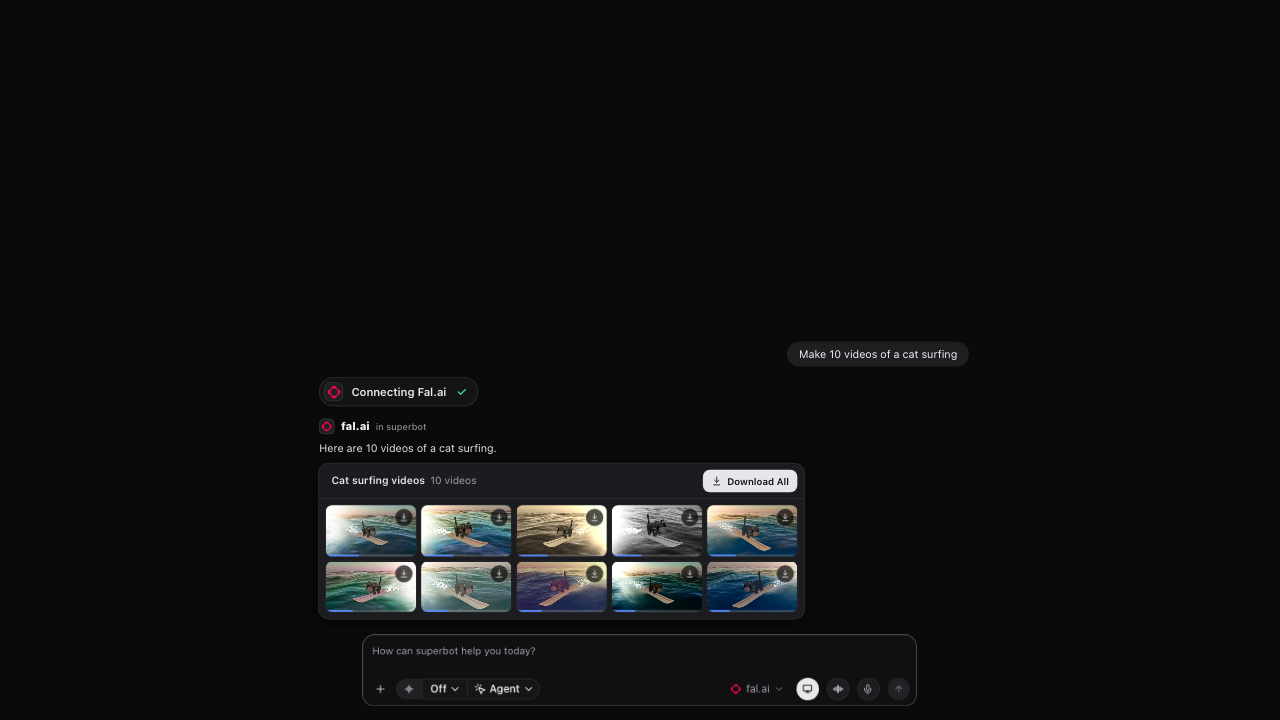
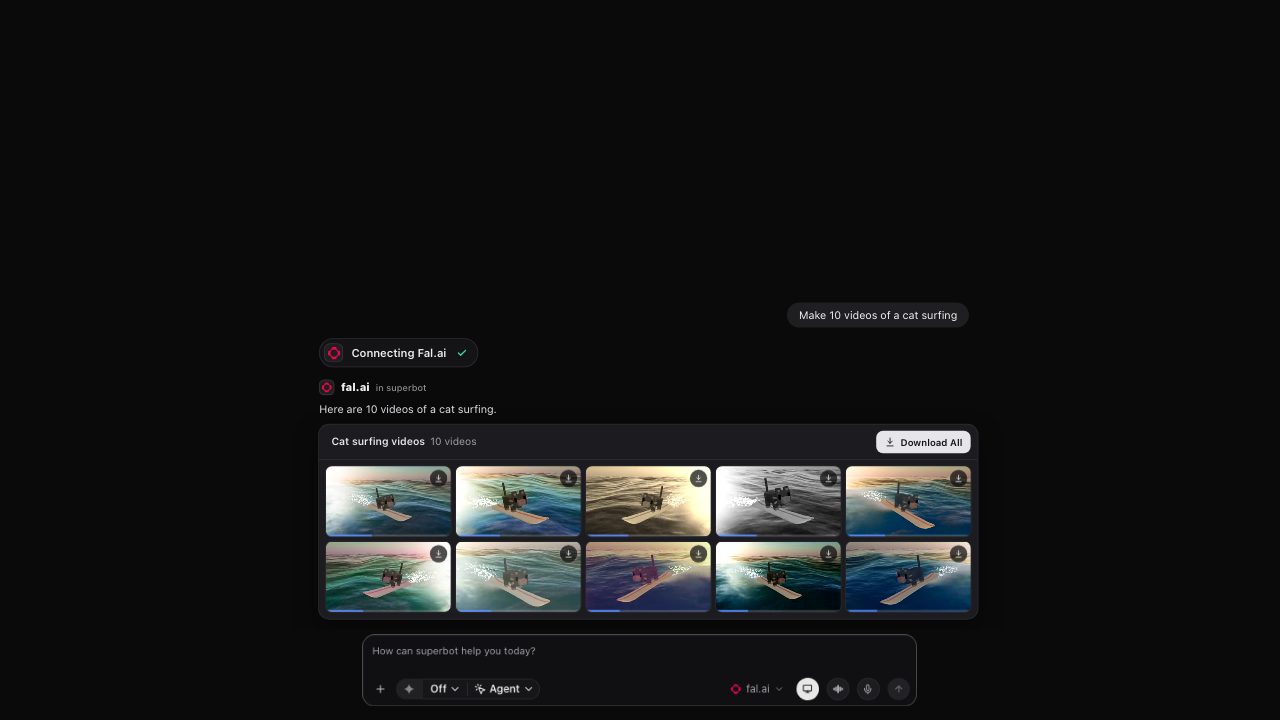
Portal: gemini-muse-meme-catsurf10-superbot-a35789f3 takes the 760px chat-column frame

Changed region(s): [[0.25, 0.4583, 0.7812, 0.8556], [0.625, 0.4889, 0.75, 0.5194], [0.625, 0.4278, 0.75, 0.4583]]

diff --git a/animations/gemini-muse-meme-catsurf10-superbot-a35789f3/scenes/tabs-assets/chat.css b/animations/gemini-muse-meme-catsurf10-superbot-a35789f3/scenes/tabs-assets/chat.css
@@ -98,6 +98,9 @@
 #s-tabs .sbsite .hub .qc-set .qc-gt { box-shadow: 0 0 0 1px #2a2a2e; }
 #s-tabs .sbsite .hub .qc-set .bk-title small { margin-left: 6px; font: 400 12px/16px var(--ui); color: #a1a1a6; }
 #s-tabs .sbsite .hub .qc-dlall { border: 0; cursor: pointer; }
+/* '10' spans the chat column (ask.css: 760px) instead of the bakery frame's 560px, its grid and tiles growing with it */
+#s-tabs .sbsite .hub .qc-media[data-v="10"] .qc-set { width: 760px; }
+#s-tabs .sbsite .hub .qc-media[data-v="10"] .qc-set .qc-grid { width: 100%; }
 #s-tabs .sbsite .hub .qc-dlall:disabled { cursor: progress; opacity: .7; }
 /* Gemini's Download button over each generated image's top right corner (gemini.9b47fc30.js dl()): a dark disc carrying
    the bakery frame's download glyph; the grid's tiles carry a smaller one */
@@ -260,5 +263,5 @@
 
 /* a photo attached to the ask (chat.9b47fc30.js attachBy): a 4:3 thumbnail above the user's bubble text, and a small chip
    before the typed text in the composer while the ask types */
-#s-tabs .sbsite .hub .qc-att { display: block; justify-self: end; width: 144px; height: auto; aspect-ratio: 4 / 3; object-fit: cover; border-radius: 12px; background: #111; box-shadow: 0 0 0 1px #2a2a2e; }
+#s-tabs .sbsite .hub .qc-att { display: block; justify-self: end; width: 128px; height: auto; aspect-ratio: 4 / 3; object-fit: cover; border-radius: 12px; background: #111; box-shadow: 0 0 0 1px #2a2a2e; }
 #s-tabs .sbsite .hub .rc-ph .qc-pchip { display: inline-block; width: 28px; height: 21px; margin-right: 7px; vertical-align: -6px; object-fit: cover; border-radius: 5px; box-shadow: 0 0 0 1px #2a2a2e; }

diff --git a/animations/gemini-muse-meme-catsurf10-superbot-a35789f3/scenes/tabs-assets/catsurf10.a35789f3.css b/animations/gemini-muse-meme-catsurf10-superbot-a35789f3/scenes/tabs-assets/catsurf10.a35789f3.css
@@ -8,6 +8,9 @@
 #s-tabs .sbsite .hub .cs10-len { position: absolute; right: 4px; bottom: 4px; padding: 0 3px; border-radius: 3px; background: rgba(0,0,0,.8); font: 600 9px/13px var(--ui); color: #fff; font-variant-numeric: tabular-nums; opacity: 0; }
 #s-tabs .sbsite .hub .cs10-bar { position: absolute; left: 0; right: 0; bottom: 0; height: 2px; background: rgba(255,255,255,.22); opacity: 0; }
 #s-tabs .sbsite .hub .cs10-bar i { position: absolute; left: 0; top: 0; bottom: 0; width: 0; background: #5b8dff; }
+/* the frame spans the chat column (ask.css: 760px) instead of the bakery frame's 560px, its grid filling it */
+#s-tabs .sbsite .hub .qc-set.cs10 { width: 760px; }
+#s-tabs .sbsite .hub .cs10 .qc-grid { width: 100%; }
 /* as for '10' (chat.css): the feed is not a will-change layer while the grid shows, so a page seeked through the camera
    push rasterises the tiles as a fresh load at the same t does */
 #s-tabs .sbsite .hub .feed-in:has(.cs10) { will-change: auto; }
